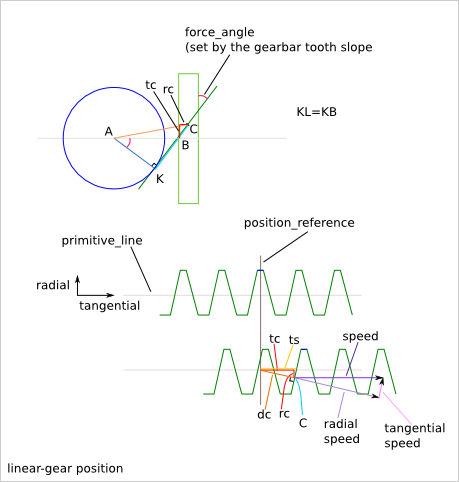
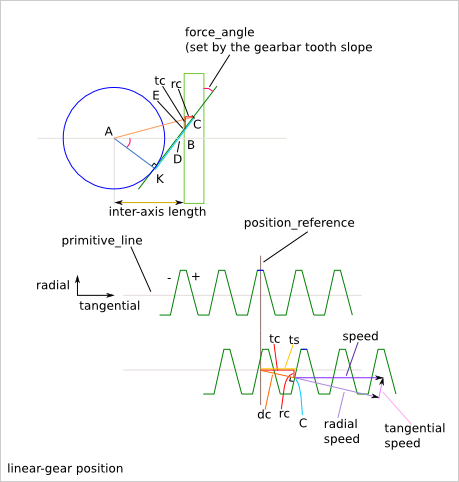
[gear_profile] positon e-l done

Changed region(s): [[0.244, 0.1245, 0.4575, 0.4668], [0.6405, 0.2178, 0.732, 0.249], [0.244, 0.2801, 0.2745, 0.3112]]

diff --git a/cnc25d/gear_profile_outline.py b/cnc25d/gear_profile_outline.py
@@ -372,7 +372,7 @@ def calc_low_level_gear_parameters(ai_param):
       i2_base, i2_offset, i2_sign, i2u_nb, i2u_ini, i2u_inc, i2_thickness,
       hl1, hl2, ha1, ha2, hrbr, hlm, ham, tlm,
       ox, oy, portion_tooth_nb, first_end, last_end, closed)
-    place_low_parameters = (gear_type, pi_module_angle, g_n, g_pr, ox, oy, g_ks, g_pc,
+    place_low_parameters = (gear_type, pi_module_angle, g_n, g_pr, ox, oy, g_ks, g_pc, g_bi,
       i1_base, i1_primitive_offset, i1_offset2,
       i2_base, i2_primitive_offset, i2_offset2,
       driven_ip_base, driven_ip_offset, driven_in_base, driven_in_offset)
@@ -410,8 +410,8 @@ def calc_low_level_gear_parameters(ai_param):
     g_aln = g_ah/math.cos(g_sn)
     g_dln = g_dh/math.cos(g_sn)
     g_hln = g_hh/math.cos(g_sn)
-    gb_p_offset = -1*(top_land/2+positive_addendum)
-    gb_n_offset = top_land/2+negative_addendum
+    gb_p_offset = top_land/2+positive_addendum
+    gb_n_offset = -1*(top_land/2+negative_addendum)
     # linear gear place low parameters
     i1_base = g_sn
     i1_primitive_offset = -1*(top_land/2+negative_addendum)
@@ -426,7 +426,7 @@ def calc_low_level_gear_parameters(ai_param):
     # return
     make_low_parameters = (g_type, pi_module, g_ox, g_oy, g_bi, bar_tooth_nb, middle_tooth, g_pfe, g_ple, tlh, blh, blx,
                             g_sp, g_sn, g_alp, g_dlp, g_hlp, g_aln, g_dln, g_hln, g_rbr, g_stp, g_stn, gb_p_offset, gb_n_offset)
-    place_low_parameters = (g_type, pi_module, g_n, g_pr, g_ox, g_oy, g_ks, g_pc,
+    place_low_parameters = (g_type, pi_module, g_n, g_pr, g_ox, g_oy, g_ks, g_pc, g_bi,
       i1_base, i1_primitive_offset, i1_offset2,
       i2_base, i2_primitive_offset, i2_offset2,
       driven_ip_base, driven_ip_offset, driven_in_base, driven_in_offset)
@@ -602,14 +602,14 @@ def slope_outline(ai_ox, ai_oy, ai_bi, ai_offset, ai_slope_angle, ai_sign, ai_to
   top_length = ai_top_length
   bottom_length = ai_bottom_length + ai_hollow_length + ai_thickness*math.tan(ai_slope_angle)
   #
-  top_x = ai_ox + (ai_tooth_position+ai_offset)*math.cos(ai_bi+math.pi/2) + top_length*math.cos(slope_angle) + ai_thickness*math.cos(thickness_angle)
-  top_y = ai_oy + (ai_tooth_position+ai_offset)*math.sin(ai_bi+math.pi/2) + top_length*math.sin(slope_angle) + ai_thickness*math.sin(thickness_angle)
-  bottom_x = ai_ox + (ai_tooth_position+ai_offset)*math.cos(ai_bi+math.pi/2) - bottom_length*math.cos(slope_angle) + ai_thickness*math.cos(thickness_angle)
-  bottom_y = ai_oy + (ai_tooth_position+ai_offset)*math.sin(ai_bi+math.pi/2) - bottom_length*math.sin(slope_angle) + ai_thickness*math.sin(thickness_angle)
+  top_x = ai_ox + (ai_tooth_position+ai_offset)*math.cos(ai_bi-math.pi/2) + top_length*math.cos(slope_angle) + ai_thickness*math.cos(thickness_angle)
+  top_y = ai_oy + (ai_tooth_position+ai_offset)*math.sin(ai_bi-math.pi/2) + top_length*math.sin(slope_angle) + ai_thickness*math.sin(thickness_angle)
+  bottom_x = ai_ox + (ai_tooth_position+ai_offset)*math.cos(ai_bi-math.pi/2) - bottom_length*math.cos(slope_angle) + ai_thickness*math.cos(thickness_angle)
+  bottom_y = ai_oy + (ai_tooth_position+ai_offset)*math.sin(ai_bi-math.pi/2) - bottom_length*math.sin(slope_angle) + ai_thickness*math.sin(thickness_angle)
   #
-  if(ai_sign==-1):
+  if(ai_sign==1):
     r_slope_B = ((top_x, top_y, 0),(bottom_x, bottom_y, ai_bottom_router_bit))
-  elif(ai_sign==1):
+  elif(ai_sign==-1):
     r_slope_B = ((bottom_x, bottom_y, ai_bottom_router_bit),(top_x, top_y, 0))
   # return
   return(r_slope_B)
@@ -633,9 +633,9 @@ def gearbar_profile_outline(ai_low_parameters, ai_tangential_position):
     hollow_middle_x = g_ox + (tangential_position-pi_module+blx)*math.cos(g_bi+math.pi/2) + blh*math.cos(g_bi+math.pi)
     hollow_middle_y = g_oy + (tangential_position-pi_module+blx)*math.sin(g_bi+math.pi/2) + blh*math.sin(g_bi+math.pi)
     gearbar_A.append((hollow_middle_x, hollow_middle_y, 0)) # hollow middle
-    gearbar_A.extend(slope_outline(g_ox, g_oy, g_bi, gb_p_offset, g_sp,  1, g_alp, g_dlp, g_hlp, g_stp, g_rbr, tangential_position)) # positive slope
+    gearbar_A.extend(slope_outline(g_ox, g_oy, g_bi, gb_n_offset, g_sn, -1, g_aln, g_dln, g_hln, g_stn, g_rbr, tangential_position)) # positive slope
   elif(g_pfe==2): # start on the positive slope
-    gearbar_A.extend(slope_outline(g_ox, g_oy, g_bi, gb_p_offset, g_sp,  1, g_alp, g_dlp, g_hlp, g_stp, 0, tangential_position)) # positive slope
+    gearbar_A.extend(slope_outline(g_ox, g_oy, g_bi, gb_n_offset, g_sn, -1, g_aln, g_dln, g_hln, g_stn, 0, tangential_position)) # positive slope
   elif(g_pfe==1): # start on the top middle
     top_middle_x = g_ox + tangential_position*math.cos(g_bi+math.pi/2) + tlh*math.cos(g_bi)
     top_middle_y = g_oy + tangential_position*math.sin(g_bi+math.pi/2) + tlh*math.sin(g_bi)
@@ -646,8 +646,8 @@ def gearbar_profile_outline(ai_low_parameters, ai_tangential_position):
   # bulk of the gearbar
   for tooth in range(bar_tooth_nb):
     gearbar_A = []
-    gearbar_A.extend(slope_outline(g_ox, g_oy, g_bi, gb_n_offset, g_sn, -1, g_aln, g_dln, g_hln, g_stn, g_rbr, tangential_position)) # negative slope
-    gearbar_A.extend(slope_outline(g_ox, g_oy, g_bi, gb_p_offset, g_sp,  1, g_alp, g_dlp, g_hlp, g_stp, g_rbr, tangential_position+pi_module)) # positive slope
+    gearbar_A.extend(slope_outline(g_ox, g_oy, g_bi, gb_p_offset, g_sp,  1, g_alp, g_dlp, g_hlp, g_stp, g_rbr, tangential_position)) # negative slope
+    gearbar_A.extend(slope_outline(g_ox, g_oy, g_bi, gb_n_offset, g_sn, -1, g_aln, g_dln, g_hln, g_stn, g_rbr, tangential_position+pi_module)) # positive slope
     #print("dbg745: gearbar_A:", gearbar_A)
     gearbar_B = cnc25d_api.cnc_cut_outline(gearbar_A, "bulk of gearbar")
     r_final_outline.extend(gearbar_B)
@@ -656,12 +656,12 @@ def gearbar_profile_outline(ai_low_parameters, ai_tangential_position):
   # end of the gearbar
   gearbar_A = []
   if(g_ple==3): # stop on hollow_middle
-    gearbar_A.extend(slope_outline(g_ox, g_oy, g_bi, gb_n_offset, g_sn, -1, g_aln, g_dln, g_hln, g_stn, g_rbr, tangential_position)) # negative slope
+    gearbar_A.extend(slope_outline(g_ox, g_oy, g_bi, gb_p_offset, g_sp,  1, g_alp, g_dlp, g_hlp, g_stp, g_rbr, tangential_position)) # negative slope
     hollow_middle_x = g_ox + (tangential_position+blx)*math.cos(g_bi+math.pi/2) + blh*math.cos(g_bi+math.pi)
     hollow_middle_y = g_oy + (tangential_position+blx)*math.sin(g_bi+math.pi/2) + blh*math.sin(g_bi+math.pi)
     gearbar_A.append((hollow_middle_x, hollow_middle_y, 0)) # hollow middle
   elif(g_ple==2): # stop on the negative slope
-    gearbar_A.extend(slope_outline(g_ox, g_oy, g_bi, gb_n_offset, g_sn, -1, g_aln, g_dln, g_hln, g_stn, 0, tangential_position)) # negative slope
+    gearbar_A.extend(slope_outline(g_ox, g_oy, g_bi, gb_p_offset, g_sp,  1, g_alp, g_dlp, g_hlp, g_stp, 0, tangential_position)) # negative slope
   elif(g_ple==1): # stop on the top middle
     top_middle_x = g_ox + tangential_position*math.cos(g_bi+math.pi/2) + tlh*math.cos(g_bi)
     top_middle_y = g_oy + tangential_position*math.sin(g_bi+math.pi/2) + tlh*math.sin(g_bi)
@@ -683,8 +683,8 @@ def ideal_linear_tooth_outline(ai_low_parameters, ai_tangential_position, ai_thi
   tangential_position = cyclic_tangential_position
   # tooth
   tooth_A = []
-  tooth_A.extend(slope_outline(g_ox, g_oy, g_bi, gb_p_offset, g_sp,  1, g_alp, g_dlp, 0, ai_thickness_coeff*g_stp, 0, tangential_position))
   tooth_A.extend(slope_outline(g_ox, g_oy, g_bi, gb_n_offset, g_sn, -1, g_aln, g_dln, 0, ai_thickness_coeff*g_stn, 0, tangential_position))
+  tooth_A.extend(slope_outline(g_ox, g_oy, g_bi, gb_p_offset, g_sp,  1, g_alp, g_dlp, 0, ai_thickness_coeff*g_stp, 0, tangential_position))
   r_ideal_tooth_outline_B = cnc25d_api.cnc_cut_outline(tooth_A, "bulk of gearbar")
   #return
   return(r_ideal_tooth_outline_B)
@@ -742,12 +742,12 @@ def g2_position_calcultion(ai_g1_low_parameters, ai_g2_low_parameters, ai_rotati
   """ calculation of the angle position of the second gear and other related parameters (speed, friction)
   """
   # get ai_g1_low_parameters
-  (g1_gear_type, g1_pi_module_angle, g1_n, g1_pr, g1_ox, g1_oy, g1_ks, g1_pc,
+  (g1_gear_type, g1_pi_module_angle, g1_n, g1_pr, g1_ox, g1_oy, g1_ks, g1_pc, g1_bi,
     g1_i1_base, g1_i1_primitive_offset, g1_i1_offset2,
     g1_i2_base, g1_i2_primitive_offset, g1_i2_offset2,
     g1_driven_ip_base, g1_driven_ip_offset, g1_driven_in_base, g1_driven_in_offset) = ai_g1_low_parameters
   # get ai_g2_low_parameters
-  (g2_gear_type, g2_pi_module_angle, g2_n, g2_pr, g2_ox, g2_oy, g2_ks, g2_pc,
+  (g2_gear_type, g2_pi_module_angle, g2_n, g2_pr, g2_ox, g2_oy, g2_ks, g2_pc, g2_bi,
     g2_i1_base, g2_i1_primitive_offset, g2_i1_offset2,
     g2_i2_base, g2_i2_primitive_offset, g2_i2_offset2,
     g2_driven_ip_base, g2_driven_ip_offset, g2_driven_in_base, g2_driven_in_offset) = ai_g2_low_parameters
@@ -901,16 +901,27 @@ def g2_position_calcultion(ai_g1_low_parameters, ai_g2_low_parameters, ai_rotati
       sys.exit(2)
     g2_rotation_speed = float(c2_speed)/BC
   elif(g2_gear_type=='l'): # linear-gear (aka gearbar)
-    g2_contact_u = g1_contact_u*g1_br-KL
-    g2_position = g2_contact_u/math.cos(g2_sa) - g2_involute_offset
-    c2y = -1*g2_contact_u*math.sin(g2_sa)
-    c2x = g2_position + g2_involute_offset + c2y*math.tan(g2_sa)
+    KD = g1_br*math.tan(g2_sa)
+    AD = g1_br/math.cos(g2_sa)
+    BD = AB-AD
+    DE = BD/math.sin(g2_sa)
+    KE = KD+DE
+    BE = BD/math.tan(g2_sa)
+    if(BD<0):
+      print("ERR852: Error, BD {:0.3f} is negative".format(BD))
+      sys.exit(2)
+    g2_contact_u = ai_rotation_direction*(g1_contact_u*g1_br-KE)
+    g2_position = ai_rotation_direction*BE + g2_contact_u/math.cos(g2_sa) - g2_involute_offset
+    dc = (g2_position+g2_involute_offset-ai_rotation_direction*BE)*math.cos(g2_sa)
+    c2x = g2_ox + ai_rotation_direction*BE*math.cos(g2_bi-math.pi/2) + dc*math.cos(g2_bi-math.pi/2-ai_rotation_direction*g2_sa)
+    c2y = g2_oy + ai_rotation_direction*BE*math.sin(g2_bi-math.pi/2) + dc*math.sin(g2_bi-math.pi/2-ai_rotation_direction*g2_sa)
+    #print("dbg989: g2_position {:0.3f}   dc {:0.3f}".format(g2_position, dc))
     if(abs(math.fmod(ti - (-1*ai_rotation_direction*g2_sa), math.pi/2))>radian_epsilon):
       print("ERR875: Error, the tangents ti {:0.3f} and slope g2_sa {:0.3f} are not equal (modulo pi)".format(ti, g2_sa))
       sys.exit(2)
     c2_speed_radial = c1_speed_radial
     c2_speed = float(c2_speed_radial)/math.cos(g2_sa)
-    c2_speed_tangential = c2_speed*math.sin(g2_sa)
+    c2_speed_tangential = ai_rotation_direction*c2_speed*math.sin(g2_sa)
     g2_rotation_speed = c2_speed
   # friction between g1 and g2
   tangential_friction = c2_speed_tangential - c1_speed_tangential
